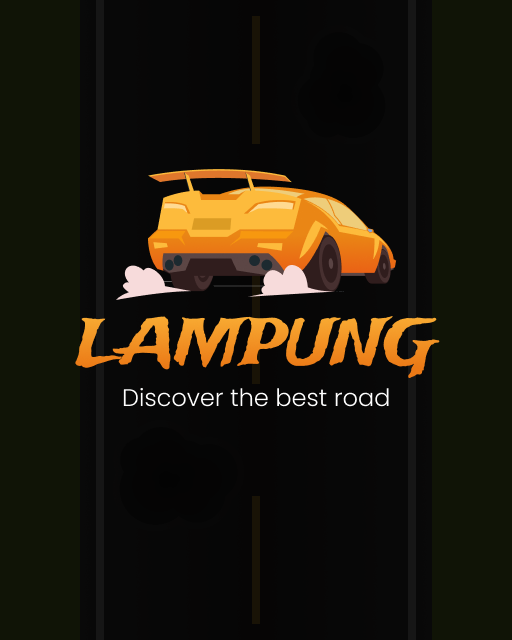
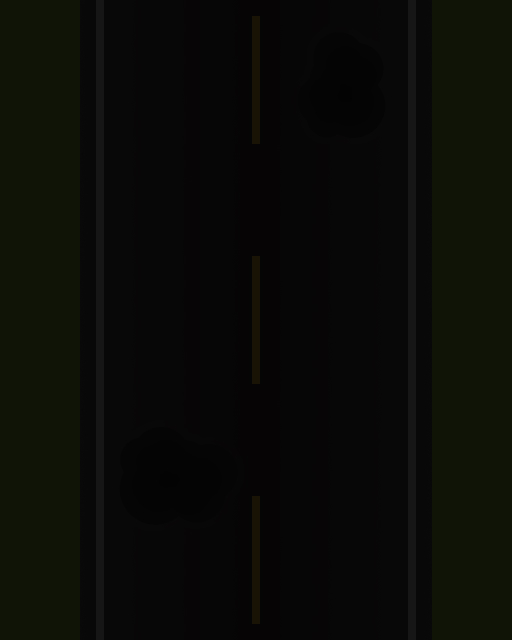
adding countdown

Changed region(s): [[0.1562, 0.25, 0.8438, 0.6562]]

diff --git a/src/GamePanel.java b/src/GamePanel.java
@@ -2,13 +2,20 @@ import javax.swing.*;
 import java.awt.*;
 import java.awt.event.ActionEvent;
 import java.awt.event.ActionListener;
+import java.io.File;
+import java.io.IOException;
 
-public class GamePanel extends JFrame  {
-    public final static int width = 512;    // screen width
-    public final static int height = 640;   // screen height
+public class GamePanel extends JFrame {
+    public final static int width = 512;    // lebar layar
+    public final static int height = 640;   // tinggi layar
     private JLabel bg;
     private JPanel mainPanel;
     private Environment env;
+
+    private JLabel countdownLabel;
+    private int countdownValue = 4;
+    private Timer countdownTimer;
+    private JButton startButton;
 
     public GamePanel() {
         setTitle("Lampung: Discover the best road");
@@ -18,7 +25,12 @@ public class GamePanel extends JFrame  {
         setResizable(false);
 
         GameManager gm = new GameManager();
-        
+
+        ImageIcon bgTitle = new ImageIcon("src/assets/title.png");
+        JLabel labelTitle = new JLabel(bgTitle);
+        labelTitle.setBounds(77, 107, 359, 309);
+        add(labelTitle);
+
         ImageIcon bgImage = new ImageIcon("src/assets/background.jpg");
         bg = new JLabel(bgImage);
         bg.setBounds(0, 0, 512, 640);
@@ -30,12 +42,12 @@ public class GamePanel extends JFrame  {
         mainPanel.setLayout(null);
         bg.add(mainPanel);
 
-        JButton startButton = new JButton();
+        startButton = new JButton();
         startButton.setBounds(129, 480, 255, 62);
         startButton.setText("Start The Game");
         startButton.setForeground(Color.white);
         startButton.setBackground(Color.green);
-        startButton.setFont(new java.awt.Font("Arial", Font.BOLD, 25));
+        startButton.setFont(new Font("Arial", Font.BOLD, 25));
         startButton.setBorder(null);
         startButton.setFocusPainted(false);
         startButton.setOpaque(true);
@@ -43,12 +55,48 @@ public class GamePanel extends JFrame  {
         startButton.addActionListener(new ActionListener() {
             @Override
             public void actionPerformed(ActionEvent e) {
-                startGame();
+                startButton.setBounds(0, 0, 0, 0);
+                labelTitle.setVisible(false);
+                startCountdown();
             }
         });
+
+        // add font bold
+        try {
+            Font customFont = Font.createFont(Font.TRUETYPE_FONT, new File("src/assets/Poppins-Bold.ttf"));
+            GraphicsEnvironment ge = GraphicsEnvironment.getLocalGraphicsEnvironment();
+            ge.registerFont(customFont);
+        } catch (IOException | FontFormatException e) {
+            e.printStackTrace();
+        }
+
+        countdownLabel = new JLabel();
+        countdownLabel.setBounds(0, 250, width, 100);
+        countdownLabel.setFont(new Font("Poppins", Font.BOLD, 90));
+        countdownLabel.setForeground(new Color(253, 187, 60));
+        countdownLabel.setHorizontalAlignment(SwingConstants.CENTER);
+        mainPanel.add(countdownLabel);
+
         setVisible(true);
     }
-    
+
+    private void startCountdown() {
+        countdownTimer = new Timer(1250, new ActionListener() {
+            @Override
+            public void actionPerformed(ActionEvent e) {
+                countdownValue--;
+                countdownLabel.setText(String.valueOf(countdownValue));
+                if (countdownValue < 0) {
+                    countdownTimer.stop();
+                    startGame();
+                } else if (countdownValue == 0) {
+                    countdownLabel.setText("GO!");
+                }
+            }
+        });
+        countdownTimer.start();
+    }
+
     private void startGame() {
         env = new Environment();
         env.setSize(width, height);
@@ -57,5 +105,4 @@ public class GamePanel extends JFrame  {
 
         bg.setVisible(false);
     }
-    
 }
